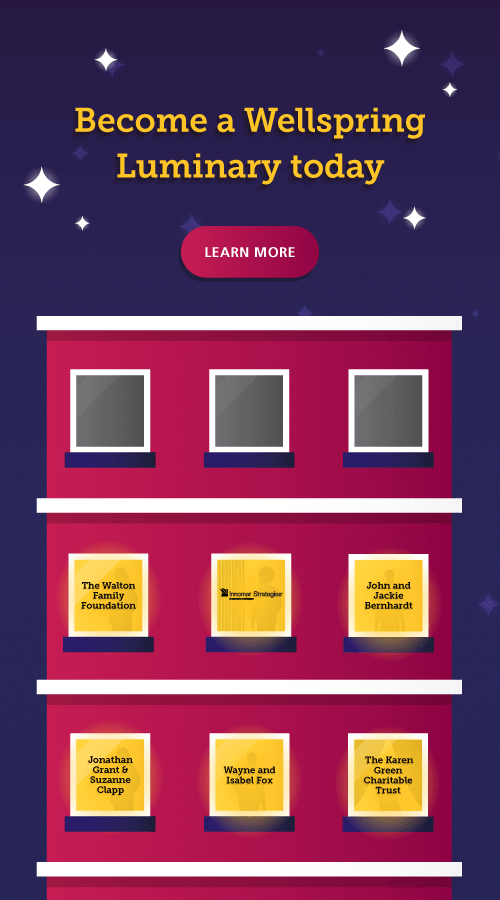
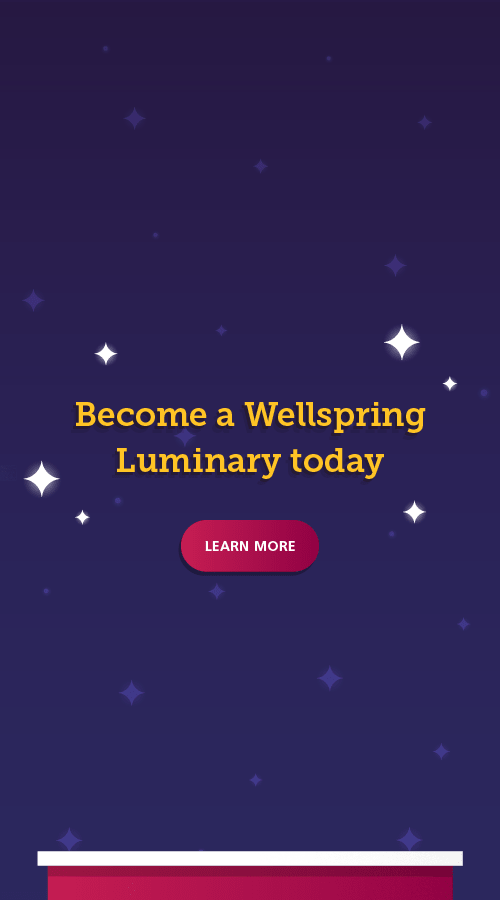
updating mobile house

diff --git a/js/index.min.js b/js/index.min.js
@@ -178,7 +178,7 @@ eval("__webpack_require__.r(__webpack_exports__);\n/* harmony import */ var _ani
 /***/ (function(module, __webpack_exports__, __webpack_require__) {
 
 "use strict";
-eval("__webpack_require__.r(__webpack_exports__);\n/* harmony import */ var _gsap__WEBPACK_IMPORTED_MODULE_0__ = __webpack_require__(/*! ./gsap */ \"./assets/js/animation/gsap/index.js\");\n/* harmony import */ var _gsap_ScrollTrigger__WEBPACK_IMPORTED_MODULE_1__ = __webpack_require__(/*! ./gsap/ScrollTrigger */ \"./assets/js/animation/gsap/ScrollTrigger.js\");\n/* harmony import */ var _gsap_ScrollToPlugin__WEBPACK_IMPORTED_MODULE_2__ = __webpack_require__(/*! ./gsap/ScrollToPlugin */ \"./assets/js/animation/gsap/ScrollToPlugin.js\");\n/* harmony import */ var swiper__WEBPACK_IMPORTED_MODULE_3__ = __webpack_require__(/*! swiper */ \"./node_modules/swiper/swiper.esm.js\");\n/* harmony import */ var _preloader__WEBPACK_IMPORTED_MODULE_4__ = __webpack_require__(/*! ../preloader */ \"./assets/js/preloader.js\");\n\n\n\n\n\n_gsap__WEBPACK_IMPORTED_MODULE_0__[\"gsap\"].registerPlugin(_gsap_ScrollTrigger__WEBPACK_IMPORTED_MODULE_1__[\"default\"]);\n_gsap__WEBPACK_IMPORTED_MODULE_0__[\"gsap\"].registerPlugin(_gsap_ScrollToPlugin__WEBPACK_IMPORTED_MODULE_2__[\"default\"]);\n\nclass MobileAnimation {\n  constructor() {\n    this.mobileContainer = document.querySelector('[data-el=\"animated.mobile-container\"]');\n    this.mobileSections = document.querySelectorAll('[data-el=\"animated.mobile-section\"]');\n    this.mobileHouse = document.querySelectorAll('[data-el=\"animated.mobile-house\"]');\n    this.init();\n  }\n\n  init() {\n    window.addEventListener('load', () => {\n      window.onbeforeunload = () => {\n        window.scrollTo(0, 0);\n      };\n\n      _preloader__WEBPACK_IMPORTED_MODULE_4__[\"default\"].then(success => {\n        if (!success) {\n          setTimeout(() => {\n            location.reload();\n          }, 3000);\n          return;\n        }\n\n        this.parallax();\n        this.checkWindowSize();\n      });\n    });\n    window.addEventListener('resize', () => {\n      this.checkWindowSize();\n    });\n  }\n\n  setBodyScroll() {\n    _gsap__WEBPACK_IMPORTED_MODULE_0__[\"TweenLite\"].set('body', {\n      height: this.mobileContainer.offsetHeight,\n      overflowY: 'scroll'\n    });\n  }\n\n  checkWindowSize() {\n    if (window.innerWidth >= window.innerHeight) {\n      this.mobileSections.forEach(section => section.classList.add('horizontal'));\n    } else {\n      this.mobileSections.forEach(section => section.classList.remove('horizontal'));\n    }\n  }\n\n  parallax() {\n    const prevButton = document.querySelector('[data-el=\"swiper.button-prev\"]'),\n          nextButton = document.querySelector('[data-el=\"swiper.button-next\"]');\n    let swiper = new swiper__WEBPACK_IMPORTED_MODULE_3__[\"default\"](this.mobileContainer, {\n      direction: 'horizontal',\n      slidesPerView: 'auto',\n      simulateTouch: true,\n      speed: 200,\n      navigation: {\n        prevEl: '[data-el=\"swiper.button-prev\"]',\n        nextEl: '[data-el=\"swiper.button-next\"]'\n      }\n    });\n    prevButton.addEventListener('click', () => swiper.slidePrev());\n    nextButton.addEventListener('click', () => swiper.slideNext());\n    _gsap_ScrollTrigger__WEBPACK_IMPORTED_MODULE_1__[\"default\"].create({\n      trigger: this.mobileHouse,\n      start: `top center`,\n      end: 'bottom center',\n      toggleClass: 'visible',\n      once: true,\n      onEnter: self => {\n        self.trigger.scrollTop = self.trigger.offsetHeight;\n      }\n    });\n  }\n\n}\n\n/* harmony default export */ __webpack_exports__[\"default\"] = (MobileAnimation);\n\n//# sourceURL=webpack:///./assets/js/animation/mobile-animation.js?");
+eval("__webpack_require__.r(__webpack_exports__);\n/* harmony import */ var _gsap__WEBPACK_IMPORTED_MODULE_0__ = __webpack_require__(/*! ./gsap */ \"./assets/js/animation/gsap/index.js\");\n/* harmony import */ var _gsap_ScrollTrigger__WEBPACK_IMPORTED_MODULE_1__ = __webpack_require__(/*! ./gsap/ScrollTrigger */ \"./assets/js/animation/gsap/ScrollTrigger.js\");\n/* harmony import */ var _gsap_ScrollToPlugin__WEBPACK_IMPORTED_MODULE_2__ = __webpack_require__(/*! ./gsap/ScrollToPlugin */ \"./assets/js/animation/gsap/ScrollToPlugin.js\");\n/* harmony import */ var swiper__WEBPACK_IMPORTED_MODULE_3__ = __webpack_require__(/*! swiper */ \"./node_modules/swiper/swiper.esm.js\");\n/* harmony import */ var _preloader__WEBPACK_IMPORTED_MODULE_4__ = __webpack_require__(/*! ../preloader */ \"./assets/js/preloader.js\");\n\n\n\n\n\n_gsap__WEBPACK_IMPORTED_MODULE_0__[\"gsap\"].registerPlugin(_gsap_ScrollTrigger__WEBPACK_IMPORTED_MODULE_1__[\"default\"]);\n_gsap__WEBPACK_IMPORTED_MODULE_0__[\"gsap\"].registerPlugin(_gsap_ScrollToPlugin__WEBPACK_IMPORTED_MODULE_2__[\"default\"]);\n\nclass MobileAnimation {\n  constructor() {\n    this.mobileContainer = document.querySelector('[data-el=\"animated.mobile-container\"]');\n    this.mobileSections = document.querySelectorAll('[data-el=\"animated.mobile-section\"]');\n    this.mobileHouse = document.querySelectorAll('[data-el=\"animated.mobile-house\"]');\n    this.init();\n  }\n\n  init() {\n    window.addEventListener('load', () => {\n      window.onbeforeunload = () => {\n        window.scrollTo(0, 0);\n      };\n\n      _preloader__WEBPACK_IMPORTED_MODULE_4__[\"default\"].then(success => {\n        if (!success) {\n          setTimeout(() => {\n            location.reload();\n          }, 3000);\n          return;\n        }\n\n        this.parallax();\n        this.checkWindowSize();\n      });\n    });\n    window.addEventListener('resize', () => {\n      this.checkWindowSize();\n    });\n  }\n\n  setBodyScroll() {\n    _gsap__WEBPACK_IMPORTED_MODULE_0__[\"TweenLite\"].set('body', {\n      height: this.mobileContainer.offsetHeight,\n      overflowY: 'scroll'\n    });\n  }\n\n  checkWindowSize() {\n    if (window.innerWidth >= window.innerHeight) {\n      this.mobileSections.forEach(section => section.classList.add('horizontal'));\n    } else {\n      this.mobileSections.forEach(section => section.classList.remove('horizontal'));\n    }\n  }\n\n  parallax() {\n    const prevButton = document.querySelector('[data-el=\"swiper.button-prev\"]'),\n          nextButton = document.querySelector('[data-el=\"swiper.button-next\"]');\n    let swiper = new swiper__WEBPACK_IMPORTED_MODULE_3__[\"default\"](this.mobileContainer, {\n      direction: 'horizontal',\n      slidesPerView: 'auto',\n      simulateTouch: true,\n      speed: 200,\n      navigation: {\n        prevEl: '[data-el=\"swiper.button-prev\"]',\n        nextEl: '[data-el=\"swiper.button-next\"]'\n      }\n    });\n    prevButton.addEventListener('click', () => swiper.slidePrev());\n    nextButton.addEventListener('click', () => swiper.slideNext());\n    _gsap_ScrollTrigger__WEBPACK_IMPORTED_MODULE_1__[\"default\"].create({\n      trigger: this.mobileHouse,\n      start: `top center`,\n      end: 'bottom center',\n      toggleClass: 'visible',\n      once: true,\n      onEnter: self => {\n        self.trigger.scrollTop = self.trigger.offsetHeight * 2;\n      }\n    });\n  }\n\n}\n\n/* harmony default export */ __webpack_exports__[\"default\"] = (MobileAnimation);\n\n//# sourceURL=webpack:///./assets/js/animation/mobile-animation.js?");
 
 /***/ }),
 

diff --git a/index.html b/index.html
@@ -253,6 +253,9 @@
                     <picture class="animation-section__picture">
                         <img src="./images/mobile-house-2.png" class="animation-section__img">
                     </picture>
+                    <picture class="animation-section__picture">
+                        <img src="./images/mobile-house-3.png" class="animation-section__img">
+                    </picture>
                 </div>
             </div>
             <div class="swiper-button swiper-button-prev" data-el="swiper.button-prev"></div>
